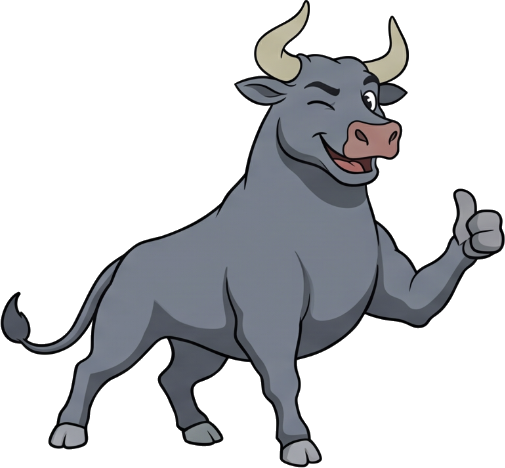
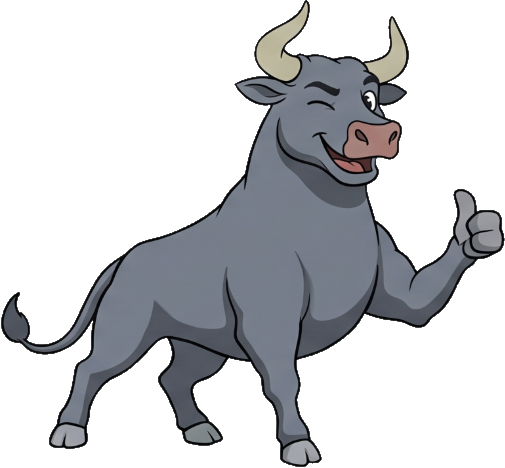
fix: the thumbs-up had a white ring, and the coach is bigger than his bubble
The cheer pose was cut hard, so the anti-aliased rim that blended toward the
white it was drawn on stayed at full opacity: a one-pixel halo all the way
round him, visible on charcoal and worse on orange. No source survives for
this one, so the fix is on the PNG: any edge pixel lighter than the ink line
is halo, because the outline is black everywhere, and it goes. 1535 pixels,
then a soft rim so the black edge is not a stair-step. Horns, hooves and the
thumb are untouched.

On the coach screen he steps up from speak to companion and the cue steps
down from title to head. He is doing the work on that screen, so he should
be bigger than the bubble is loud.

diff --git a/components/ExerciseInfo.tsx b/components/ExerciseInfo.tsx
@@ -93,11 +93,14 @@ export default function ExerciseInfo({
       <h1 className="statement mt-2 text-figure text-fg">{ex.name}</h1>
 
       {/* He says it. The bubble is his, not the screen's. He faces it, hoof up,
-          because this is the one screen where he is showing rather than standing. */}
+          because this is the one screen where he is showing rather than standing.
+          He gets the companion size rather than speak: he is doing the work here,
+          so he is bigger than the bubble is loud. The cue steps down to head so
+          the two do not compete. */}
       <div className="mt-5 flex items-end gap-2">
-        <Bull size={BULL.speak} pose="show" className="shrink-0" />
-        <div className="relative flex-1 rounded-2xl rounded-bl-sm bg-cyan px-5 py-4">
-          <p className="aside text-title text-ground">{ex.cue}</p>
+        <Bull size={BULL.companion} pose="show" className="shrink-0" />
+        <div className="relative flex-1 rounded-2xl rounded-bl-sm bg-cyan px-4 py-3">
+          <p className="aside text-head text-ground">{ex.cue}</p>
         </div>
       </div>
 
